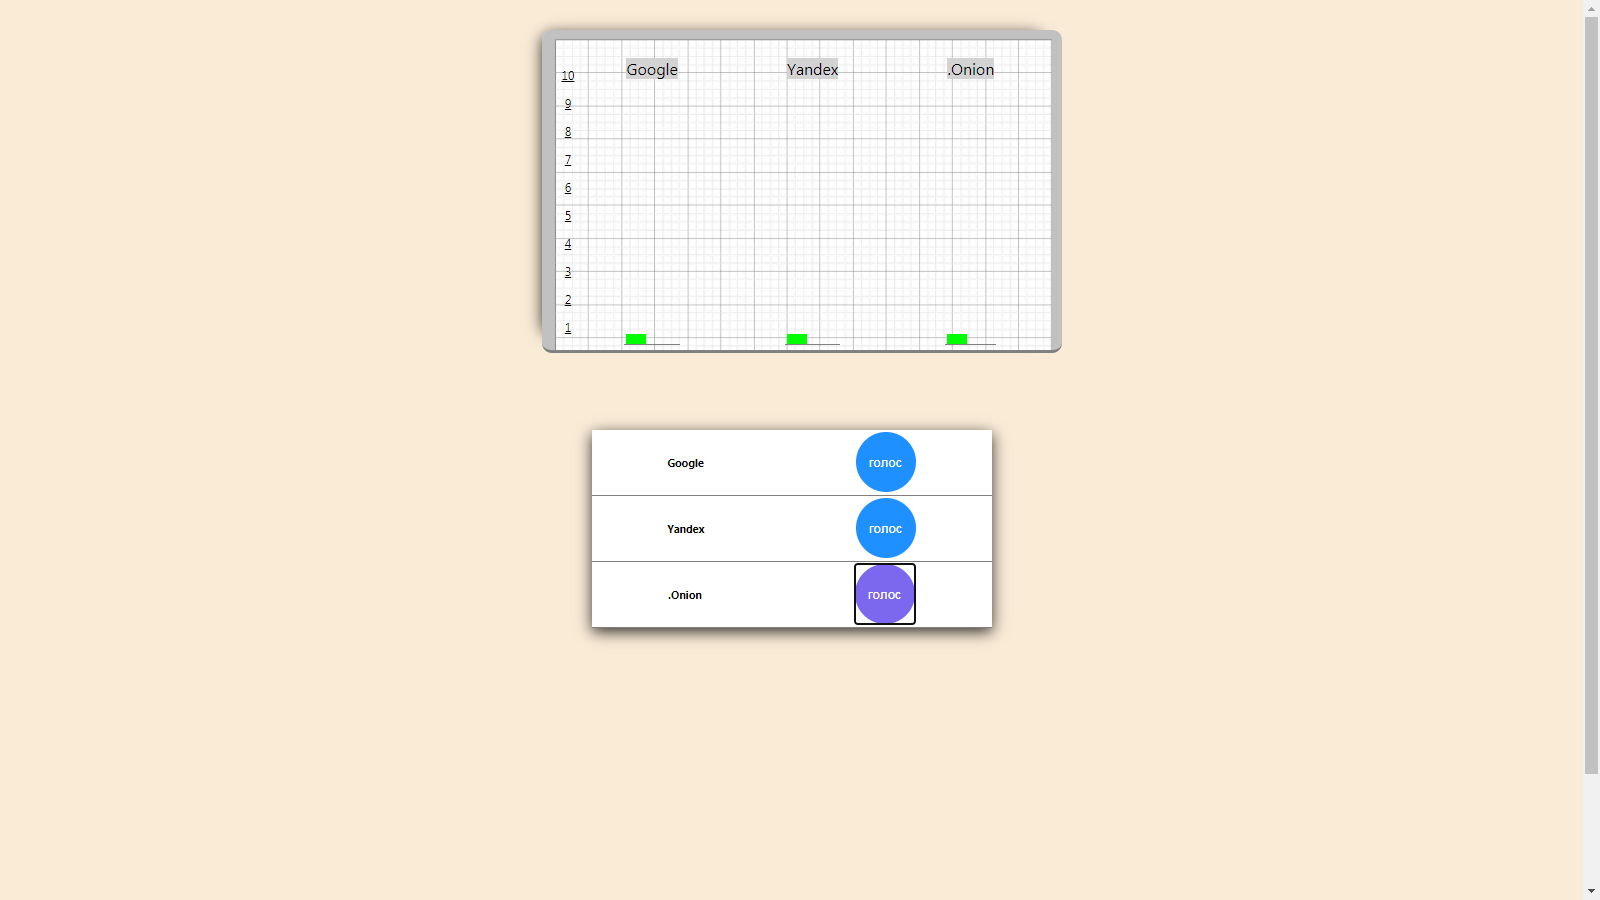
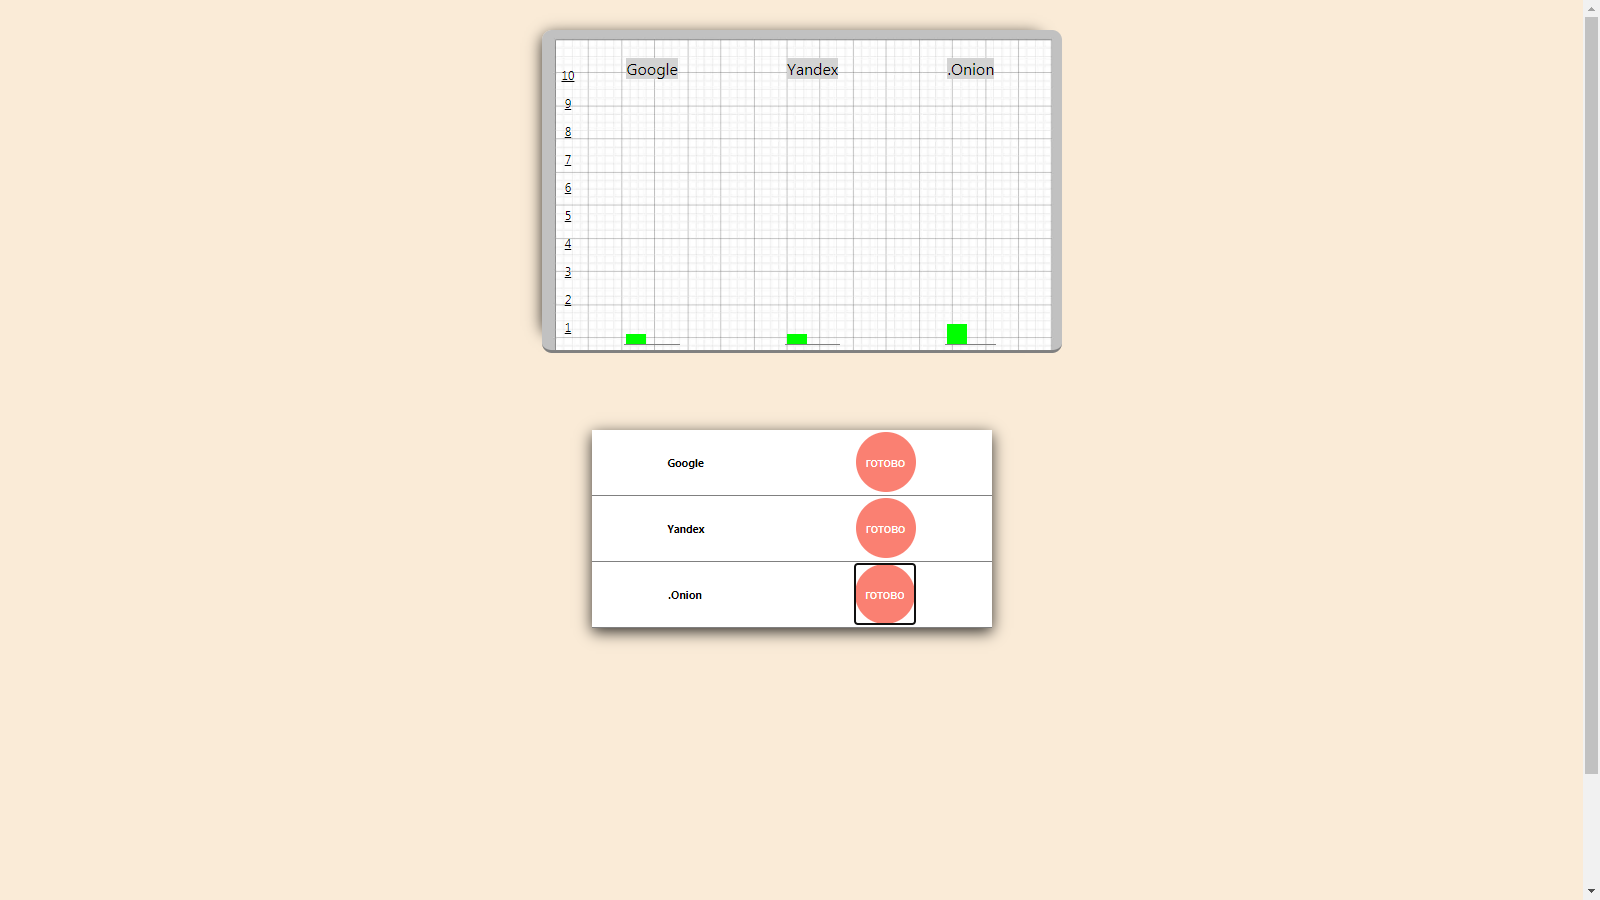
need to add remove vote system

Changed region(s): [[0.5312, 0.4667, 0.5938, 0.7156], [0.5938, 0.3422, 0.625, 0.3733]]

diff --git a/src/components/buttonsBox.js b/src/components/buttonsBox.js
@@ -1,34 +1,35 @@
-import React, {useState,useContext} from 'react'
+import React, {useState,useEffect} from 'react'
 import './styles.css'
+import Graphics from './graphics'
 
 function VoteButtons(props){
-	const [vote, setVote] = useState(false)
 	const [items , setItems] = useState([1,2,3])
-	const Clicker = () => {
-		if(vote == false){
-			setVote(true)
-		} else {
-			setVote(false)
-		}
-	}
+	//const Clicker = () => {
+		//if(vote == false){
+			//setVote(true)
+		//} else {
+			//setVote(false)
+		//}
+		//}
+	
 	//const listitems = items.map((item) => {
 		//return (<div className='Vote'><h6>{props.item}</h6><button onClick={Clicker} className='btn Vote-btn'>{vote == true? 'готово' : 'голос'}</button></div>)
 	//})
 	return(
 		<div className='VoteButtons'>
 			<div className='Vote'><h6>Google</h6>
-				<button onClick={Clicker} className={vote ==true? 'Vote-btn active' : 'Vote-btn'}>
-					{vote == true ? 'готово' : 'голос'}
+				<button onClick={props.firstState} className={props.vote ==true? 'Vote-btn active' : 'Vote-btn'}>
+					{props.vote == true ? 'готово' : 'голос'}
 				</button>
 			</div>
 			<div className='Vote'><h6>Yandex</h6>
-				<button onClick={Clicker} className = {vote == true? 'Vote-btn active': 'Vote-btn'}>
-					{vote == true ? 'готово' : 'голос'}
+				<button onClick={props.secondState} className = {props.vote == true? 'Vote-btn active': 'Vote-btn'}>
+					{props.vote == true ? 'готово' : 'голос'}
 				</button>
 			</div>
 			<div className='Vote'><h6>.Onion</h6>
-				<button onClick={Clicker} className= { vote == true? 'Vote-btn active': 'Vote-btn'}>
-					{vote == true ? 'готово' : 'голос'}
+				<button onClick={props.thirdState} className= {props.vote == true? 'Vote-btn active': 'Vote-btn'}>
+					{props.vote == true ? 'готово' : 'голос'}
 				</button>
 			</div>
 		</div>

diff --git a/src/App.js b/src/App.js
@@ -1,13 +1,50 @@
-import React from 'react';
+import React , {useState }from 'react';
 import './App.css';
 import GraphicsBox from './components/graphicsBox'
 import VoteButtons from './components/buttonsBox'
 
 function App() {
+
+  const [first, setFirst] = useState(10)
+  const [second , setSecond] = useState(10)
+  const [third, setThird] = useState(10)
+  const [vote, setVote] = useState({
+    voted : false,
+    choice : ''
+  })
+
+  const firstState = () =>{
+    if(vote.voted === false)
+    setFirst(first + 10)
+    setVote({
+      voted : true,
+      choice : 'first'
+
+    })
+  }
+  const secondState = () =>{
+    if(vote.voted === false)
+    setSecond(second + 10)
+    setVote({
+      voted : true,
+      choice : 'second'
+
+    })
+  }
+  const thirdState = () =>{
+    if(vote.voted === false)
+    setThird(third + 10)
+    setVote({
+      voted : true,
+      choice : 'third'
+    
+    })
+  }
+
   return (
     <div className="App">
-     <GraphicsBox/>
-     <VoteButtons/>
+     <GraphicsBox first ={first}  second = {second} third = {third}/>
+     <VoteButtons vote = {vote.voted} firstState = {firstState} secondState={secondState} thirdState={thirdState}/>
     </div>
   );
 }

diff --git a/src/components/graphics.js b/src/components/graphics.js
@@ -1,11 +1,9 @@
-import React, {useState, useEffect } from 'react'
+import React, { useEffect } from 'react'
 import './styles.css'
 
 
 function Graphics(props){
-	const [first, setFirst] = useState(10)
-	const [second , setSecond] = useState(10)
-	const [third, setThird] = useState(10)
+	
 	const numbers = [10,9,8,7,6,5,4,3,2,1]
 
 	const number = numbers.map((number) =>{
@@ -19,15 +17,15 @@ function Graphics(props){
 
 			<div className='column-container'>
 				<p className='column-text'>Google</p>
-				<div style={{ height: first}} className='first column'></div>
+				<div style={{ height: props.first }} className='first column'></div>
 			</div>
 			<div className='column-container'>
 				<p className='column-text'>Yandex</p>
-			<div style={{ height : second }} className='second column'></div>
+			<div style={{ height : props.second }} className='second column'></div>
 			</div>
 			<div className='column-container'>
 				<p className='column-text'>.Onion</p>
-			<div style={{ height : third }} className='third column'></div>
+			<div style={{ height : props.third }} className='third column'></div>
 			</div>
 		</div>
 	)

diff --git a/src/components/graphicsBox.js b/src/components/graphicsBox.js
@@ -4,10 +4,13 @@ import './styles.css'
 import Graphics from './graphics'
 
 class GraphicsBox extends React.Component{
+	constructor(props){
+		super(props)
+	}
 	render(){
 		return (
 			<div className='GraphicsBox'>
-				<Graphics/>
+				<Graphics first = {this.props.first} second = {this.props.second} third = {this.props.third}/>
 			</div>	
 		)
 	}
